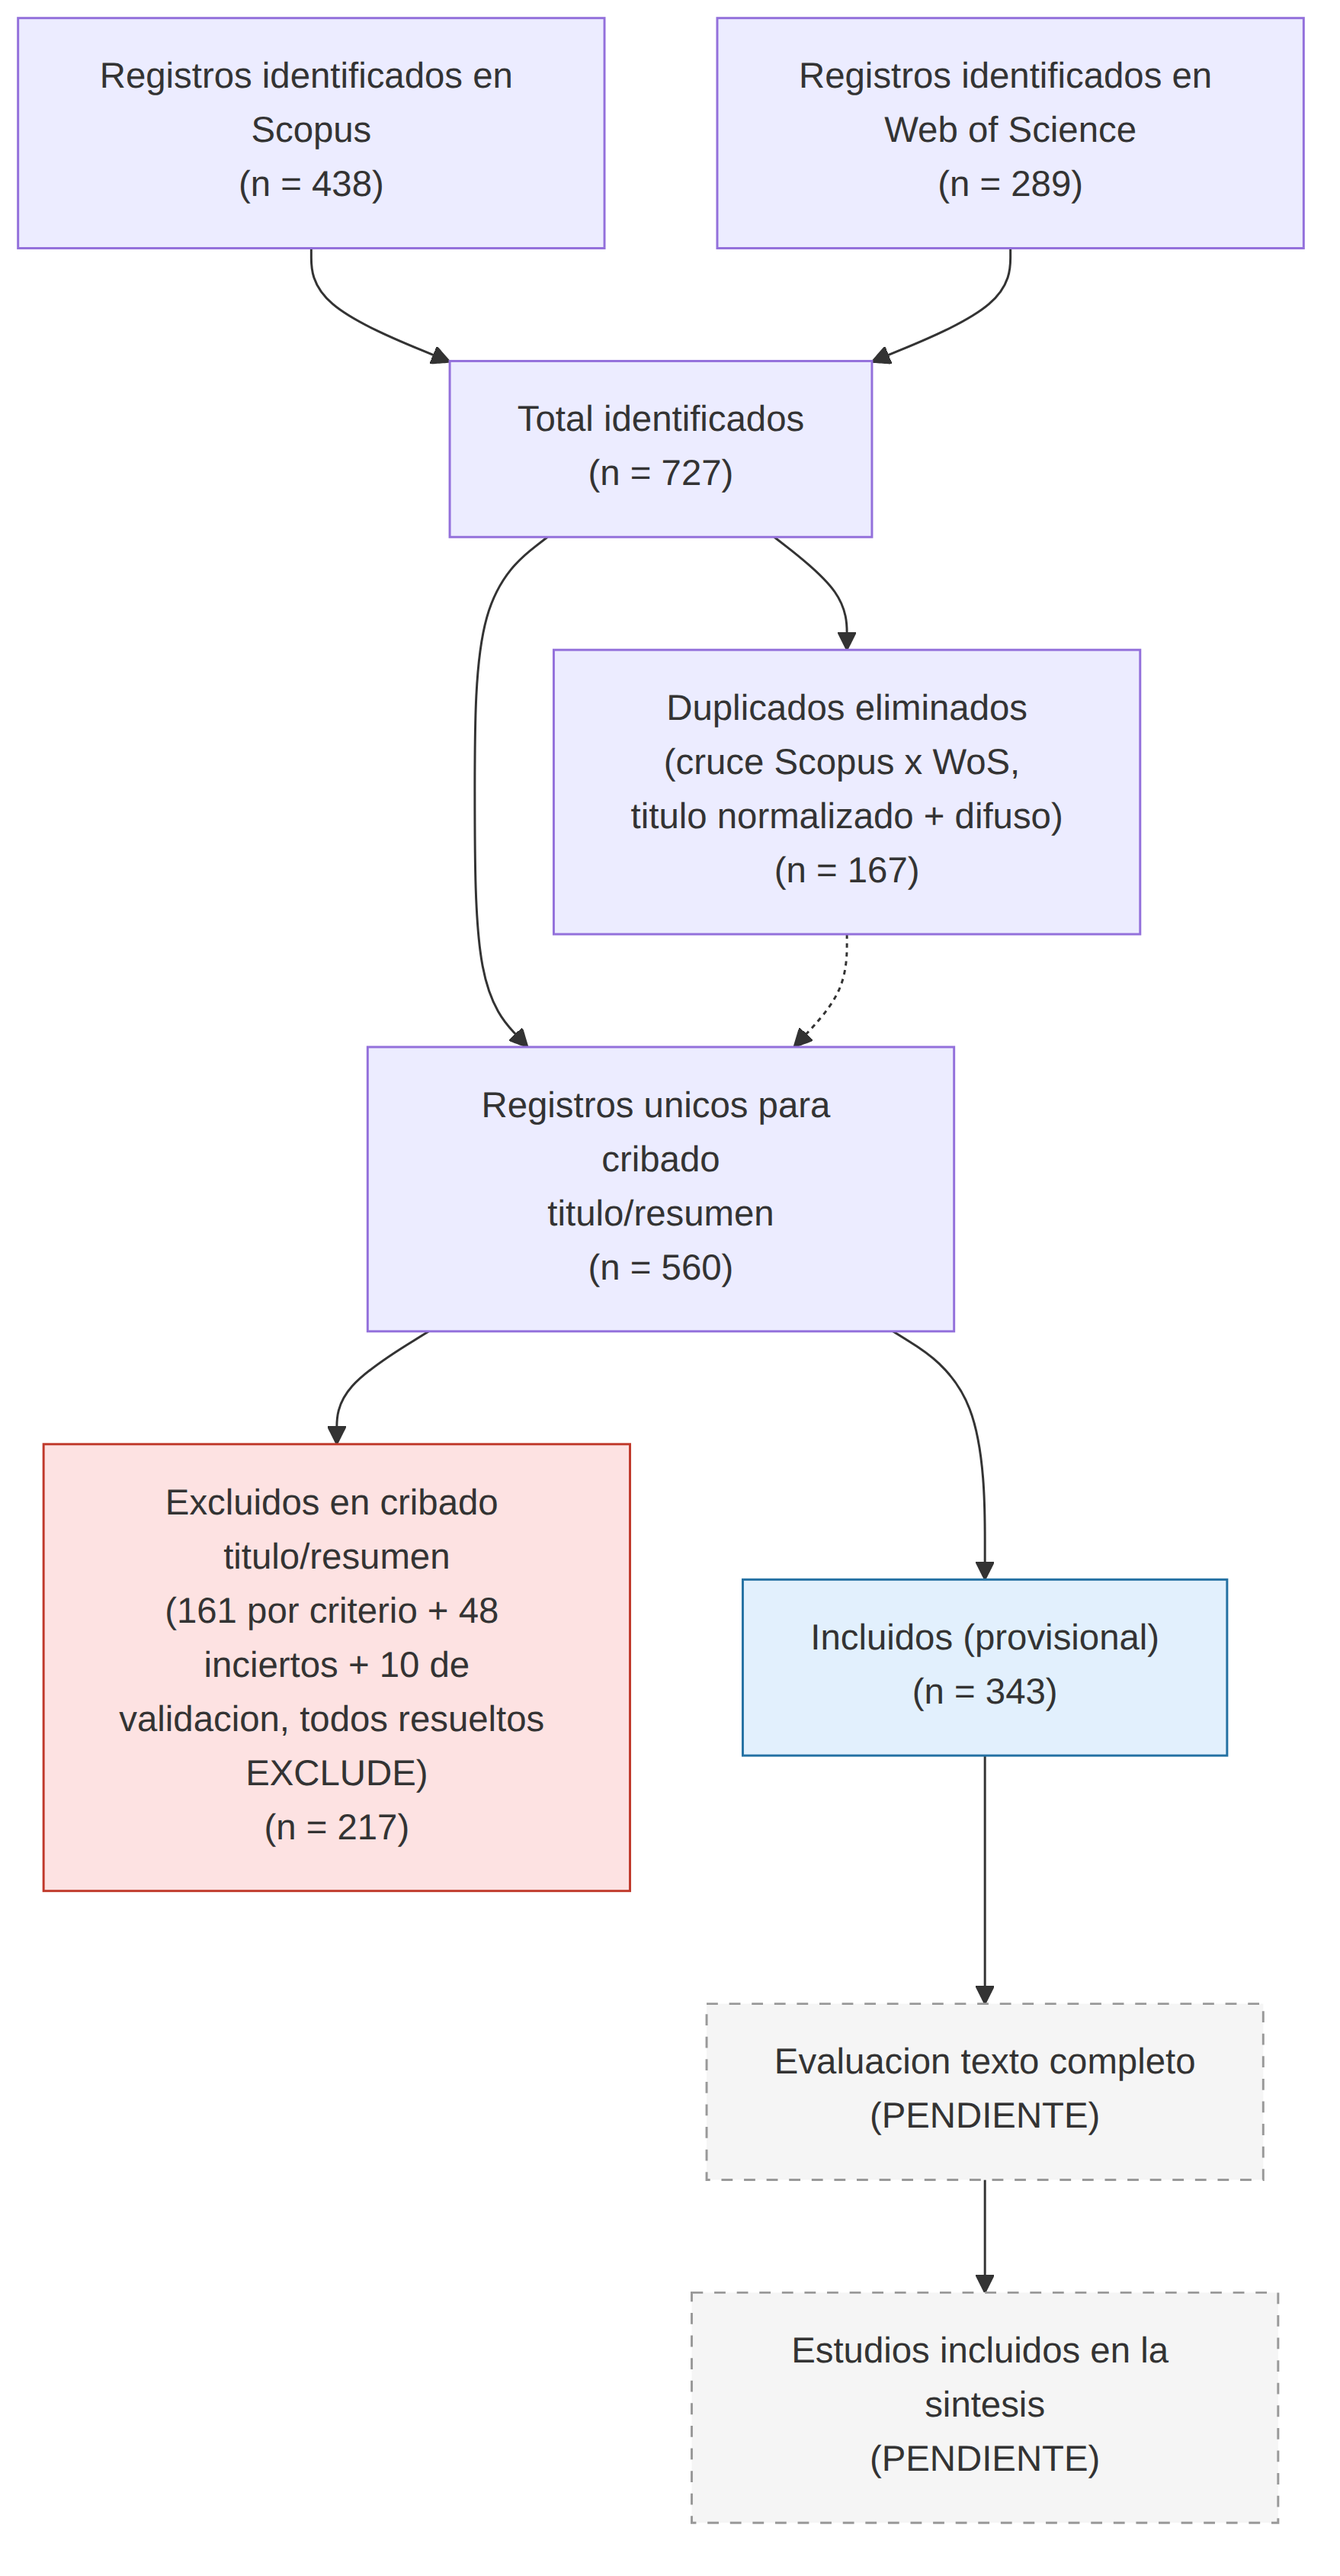
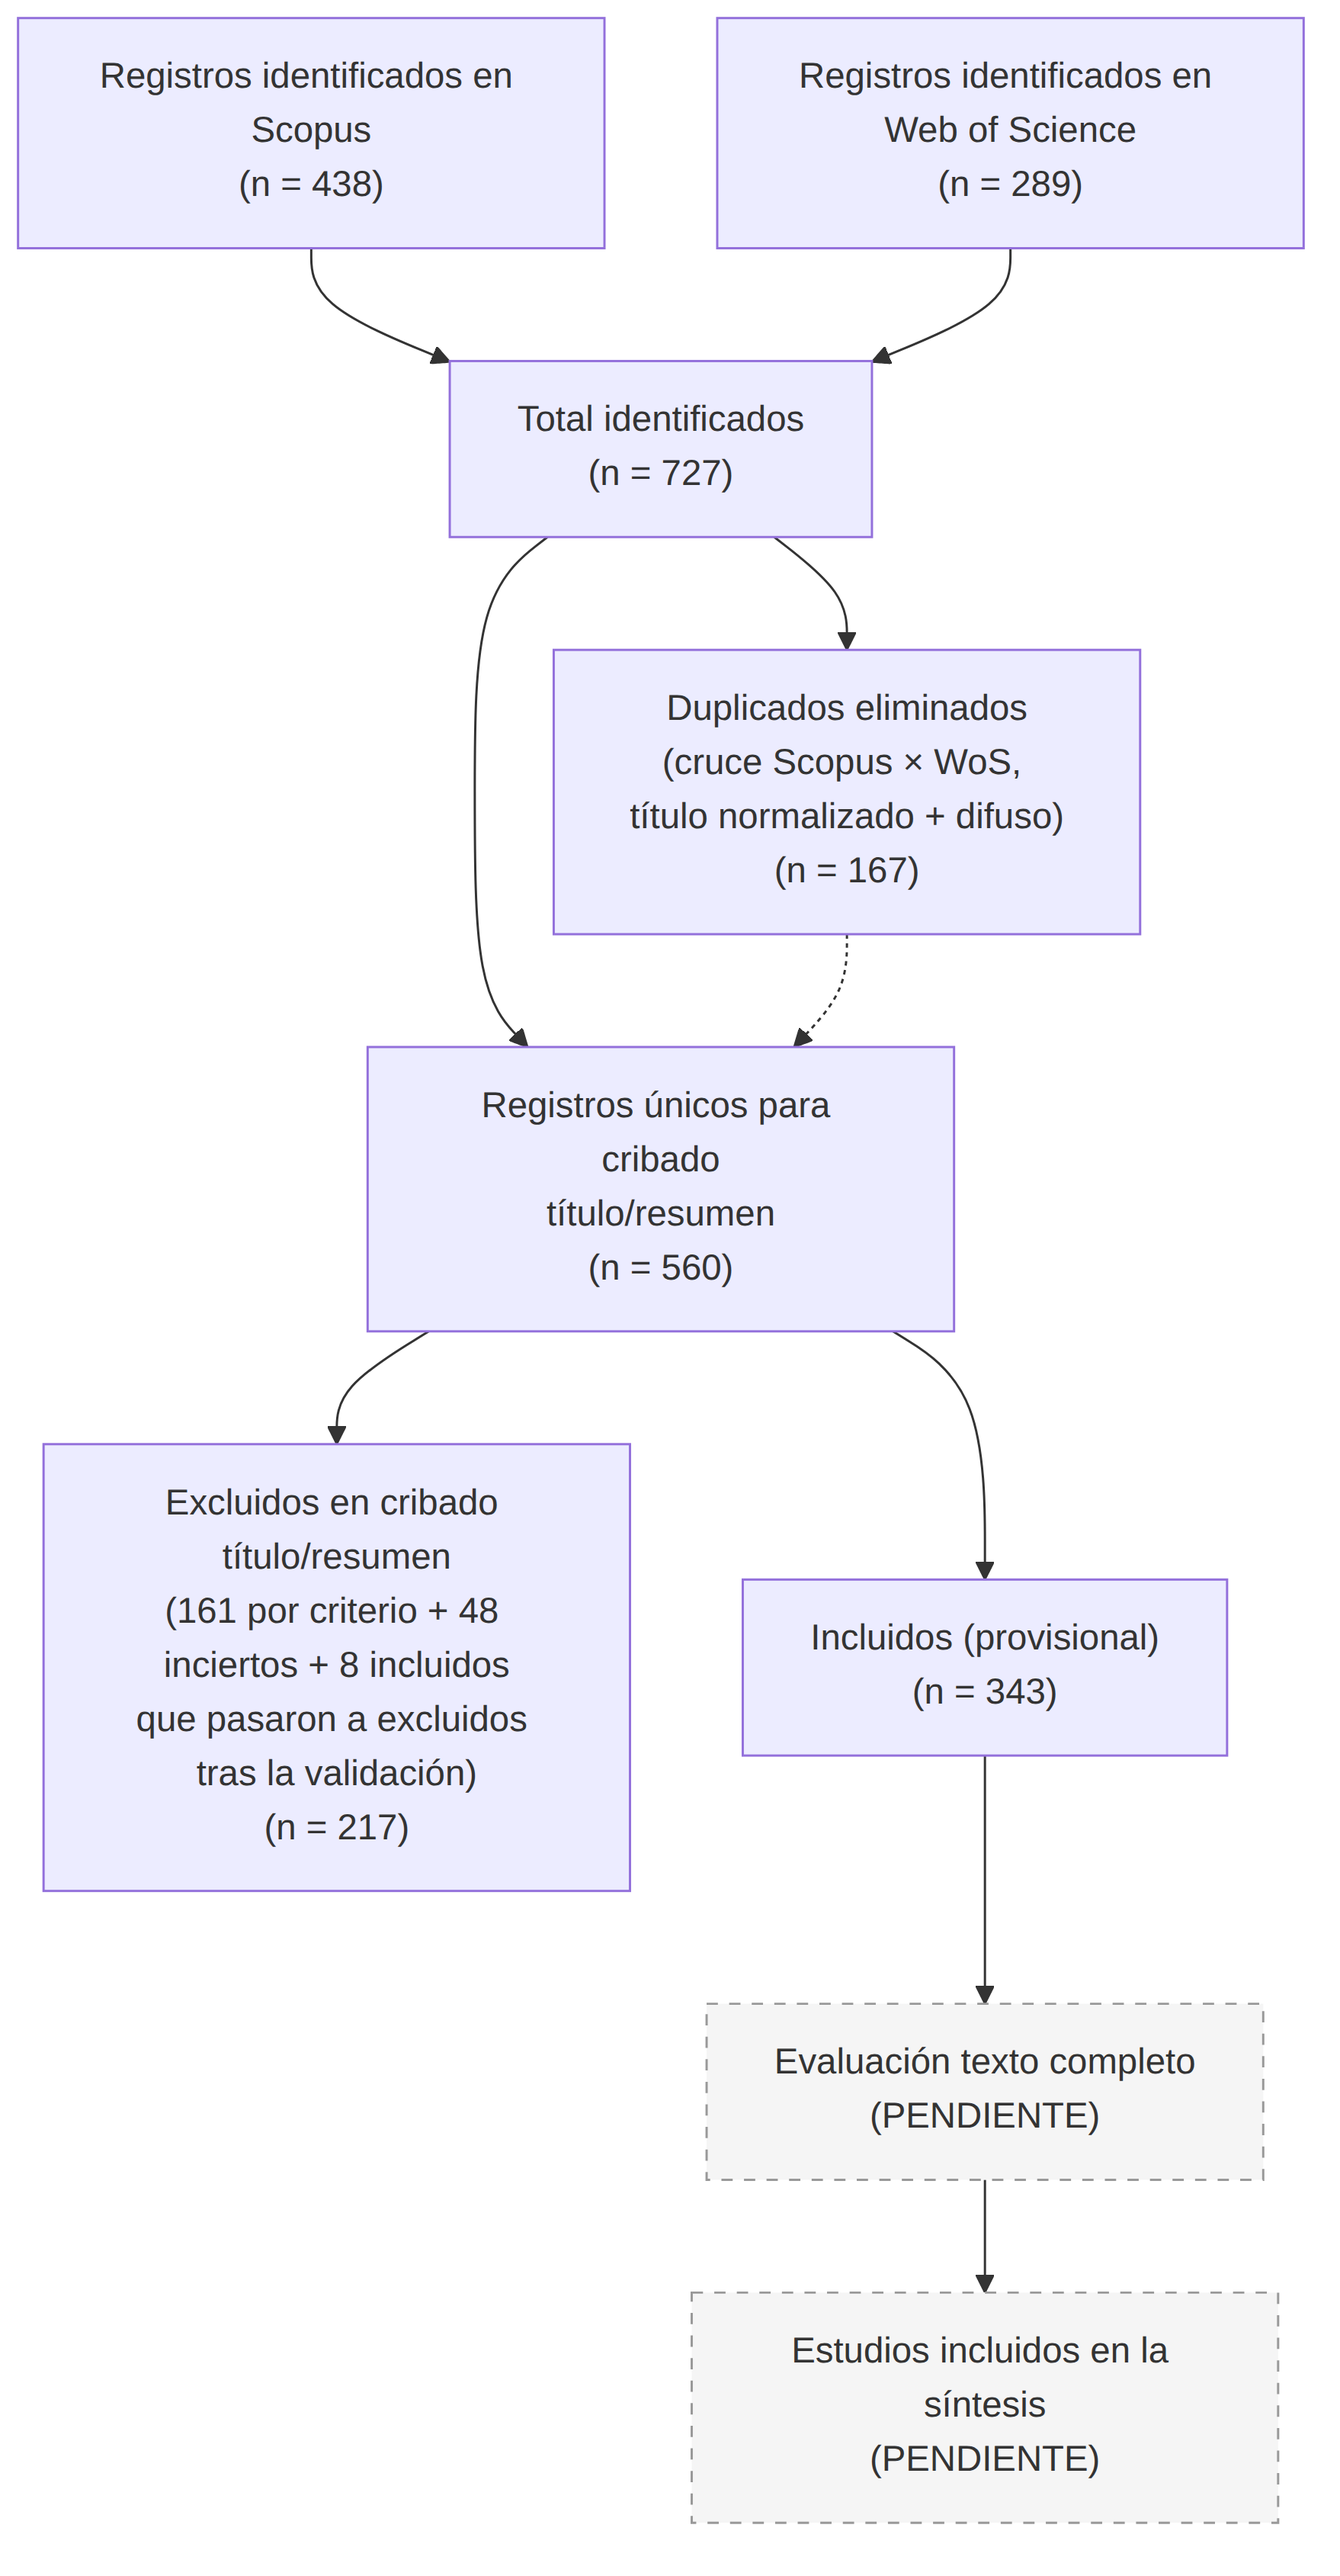
Diagrama de flujo PRISMA actualizado (ventana 2019–2027)

diff --git a/05-diagrama-flujo/diagrama-flujo.md b/05-diagrama-flujo/diagrama-flujo.md
@@ -21,7 +21,7 @@ flowchart TD
     C --> D["Duplicados eliminados\n(cruce Scopus × WoS, título normalizado + difuso)\n(n = 167)"]
     C --> E["Registros únicos para cribado\ntítulo/resumen\n(n = 560)"]
     D -.-> E
-    E --> F["Excluidos en cribado título/resumen\n(161 por criterio + 48 inciertos + 10 de\nvalidacion, todos resueltos EXCLUDE)\n(n = 217)"]
+    E --> F["Excluidos en cribado título/resumen\n(161 por criterio + 48 inciertos + 8 incluidos\nque pasaron a excluidos tras la validación)\n(n = 217)"]
     E --> G["Incluidos (provisional)\n(n = 343)"]
     G --> H["Evaluación texto completo\n(PENDIENTE)"]
     H --> I["Estudios incluidos en la síntesis\n(PENDIENTE)"]
@@ -41,7 +41,7 @@ flowchart TD
 | **Únicos para cribado** | **560** | `PRISMA_master_final.csv` |
 | Excluidos en cribado título/resumen por criterio (IA, primera pasada) | 161 (28.8%) | `07-cribado/resultados-cribado.csv` |
 | Inciertos (IA), resueltos EXCLUDE por el autor | 48 (8.6%) | `07-cribado/resultados-cribado.csv` (columna `resolucion`) |
-| Desacuerdos IA-IA en validación por muestreo, resueltos EXCLUDE | 10 (de una muestra de 102) | `07-cribado/validacion.md` |
+| Desacuerdos IA-IA en validación por muestreo, resueltos EXCLUDE | 10 (de una muestra de 102): 8 eran INCLUDE en la primera pasada y 2 ya eran EXCLUDE, de modo que suman 8 excluidos nuevos | `07-cribado/validacion.md` |
 | **Excluidos, total (decisión final)** | **217 (38.8%)** | `cribado_decision_final` en `PRISMA_master_final.csv` |
 | **Incluidos (decisión final, provisional)** | **343 (61.3%)** | `cribado_decision_final` en `PRISMA_master_final.csv` |
 | Evaluados a texto completo | — | pendiente |
@@ -72,12 +72,13 @@ documenta el motivo de cada ajuste — por si en una fase posterior conviene
 reconsiderar alguno de estos 58 registros (48 + 10) que requirieron
 resolución.
 
-**Importante:** el conteo de incluidos (343) sigue siendo **preliminar**:
-la validación hecha (Kappa 0.799) mide consistencia IA-IA, no reemplaza
-una revisión humana independiente como exige el estándar PRISMA. Se
-recomienda que el autor de la tesis revise al menos una submuestra humana
-antes de citar este número en el capítulo metodológico — ver
-`07-cribado/metodologia.md` y `07-cribado/validacion.md`.
+**Importante:** el conteo de incluidos (343) es **provisional**: la
+validación hecha (Kappa 0.799) mide consistencia IA-IA y no sustituye una
+revisión humana independiente como exige el estándar PRISMA; las 502
+decisiones automáticas quedan pendientes de verificación humana por
+submuestra — ver `07-cribado/metodologia.md` y `07-cribado/validacion.md`.
+La Figura 3.4 de la tesis (flujo completo con la síntesis) se genera con
+`python3 08-sintesis/fig_3_4_prisma_flujo.py`.
 
 Todo número de identificación/deduplicación es recalculable ejecutando
 `scripts/dedup.py` sobre los archivos de `02-exports-crudos/`. Los conteos
